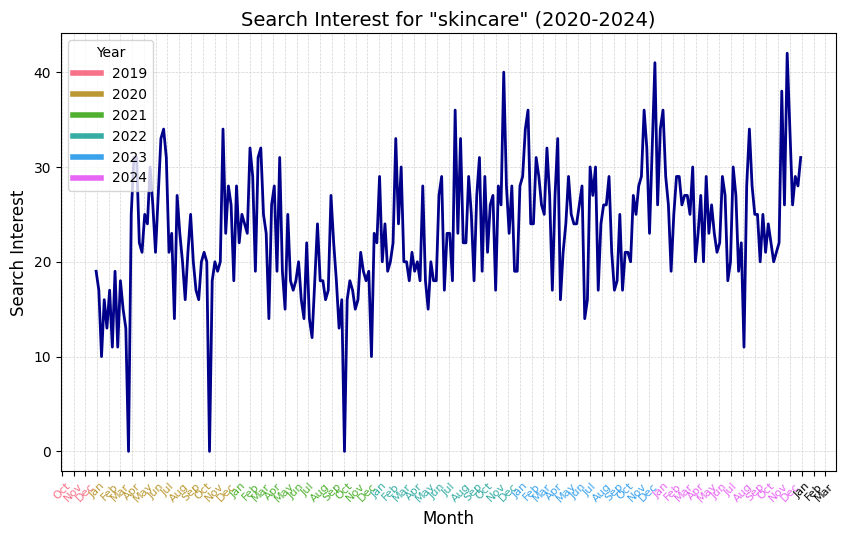
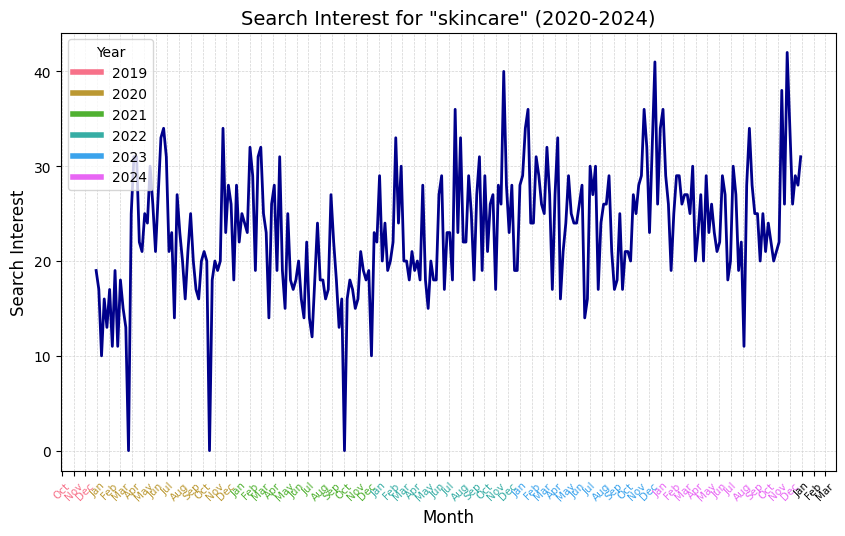
Adjusting font size for x-tick labels in time series plots.

diff --git a/analytics/plot-time-series/plot_max_uv.py b/analytics/plot-time-series/plot_max_uv.py
@@ -38,7 +38,7 @@ for label, tick_date in zip(ax.get_xticklabels(), tick_dates):
     label.set_color(year_color_map.get(year, 'black'))  # Assign color based on year
 
 # Adjust label visibility
-plt.xticks(rotation=45, fontsize=8)
+plt.xticks(rotation=45, fontsize=7.5)
 plt.subplots_adjust(bottom=0.15)  # Avoid cutoff issues for x-axis title
 
 # Label axes, create title, and format the background of the plot

diff --git a/analytics/plot-time-series/plot_search_over_time.py b/analytics/plot-time-series/plot_search_over_time.py
@@ -46,7 +46,7 @@ def plot_trend_over_time(term):
         label.set_color(year_color_map.get(year, 'black'))  # Assign color based on year
 
     # Adjust label visibility
-    plt.xticks(rotation=45, fontsize=8)
+    plt.xticks(rotation=45, fontsize=7.5)
     plt.subplots_adjust(bottom=0.15)  # Avoid cutoff issues for x-axis title
 
     # Add labels and title, adjust plot formatting

diff --git a/analytics/plot-time-series/plot_max_temps.py b/analytics/plot-time-series/plot_max_temps.py
@@ -38,7 +38,7 @@ for label, tick_date in zip(ax.get_xticklabels(), tick_dates):
     label.set_color(year_color_map.get(year, 'black'))  # Assign color based on year
 
 # Adjust label visibility
-plt.xticks(rotation=45, fontsize=8)
+plt.xticks(rotation=45, fontsize=7.5)
 plt.subplots_adjust(bottom=0.15)  # Avoid cutoff for x-axis title
 
 # Label axes, title, and background of plot
